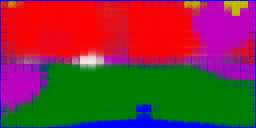
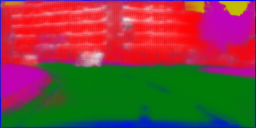
modif fcn to unet model

diff --git a/functions_utils.py b/functions_utils.py
@@ -6,7 +6,7 @@ import numpy as np
 
 # Fonction pour effectuer les prédictions
 def predict(image_path):
-    model = keras.models.load_model('model_fcn8', compile = False)
+    model = keras.models.load_model('model_unet', compile = False)
     model.compile(loss='categorical_crossentropy',
               metrics=['accuracy'])
     
